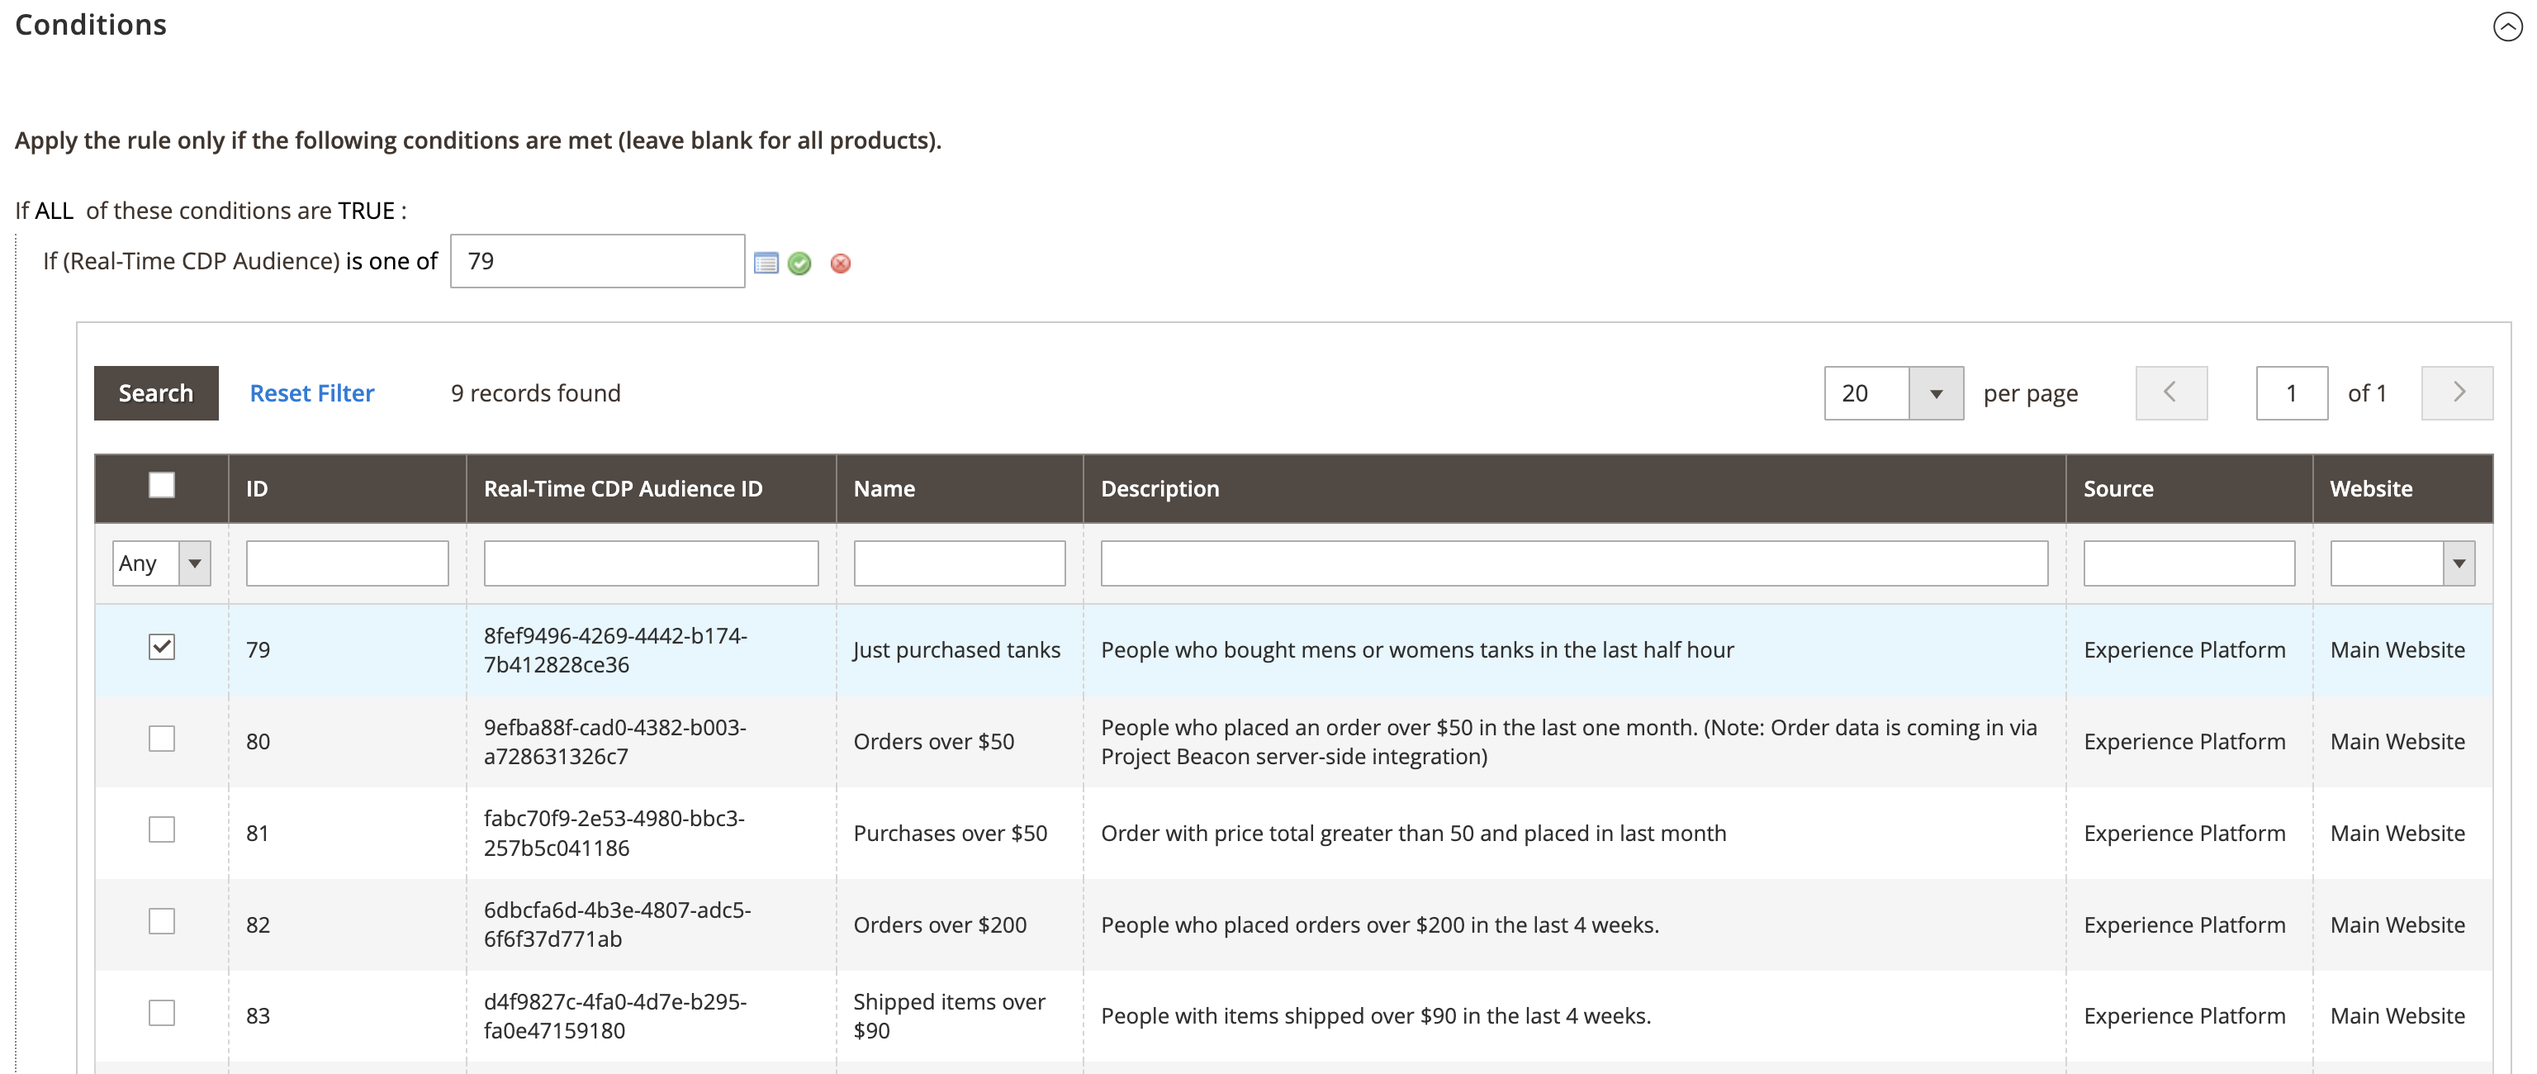
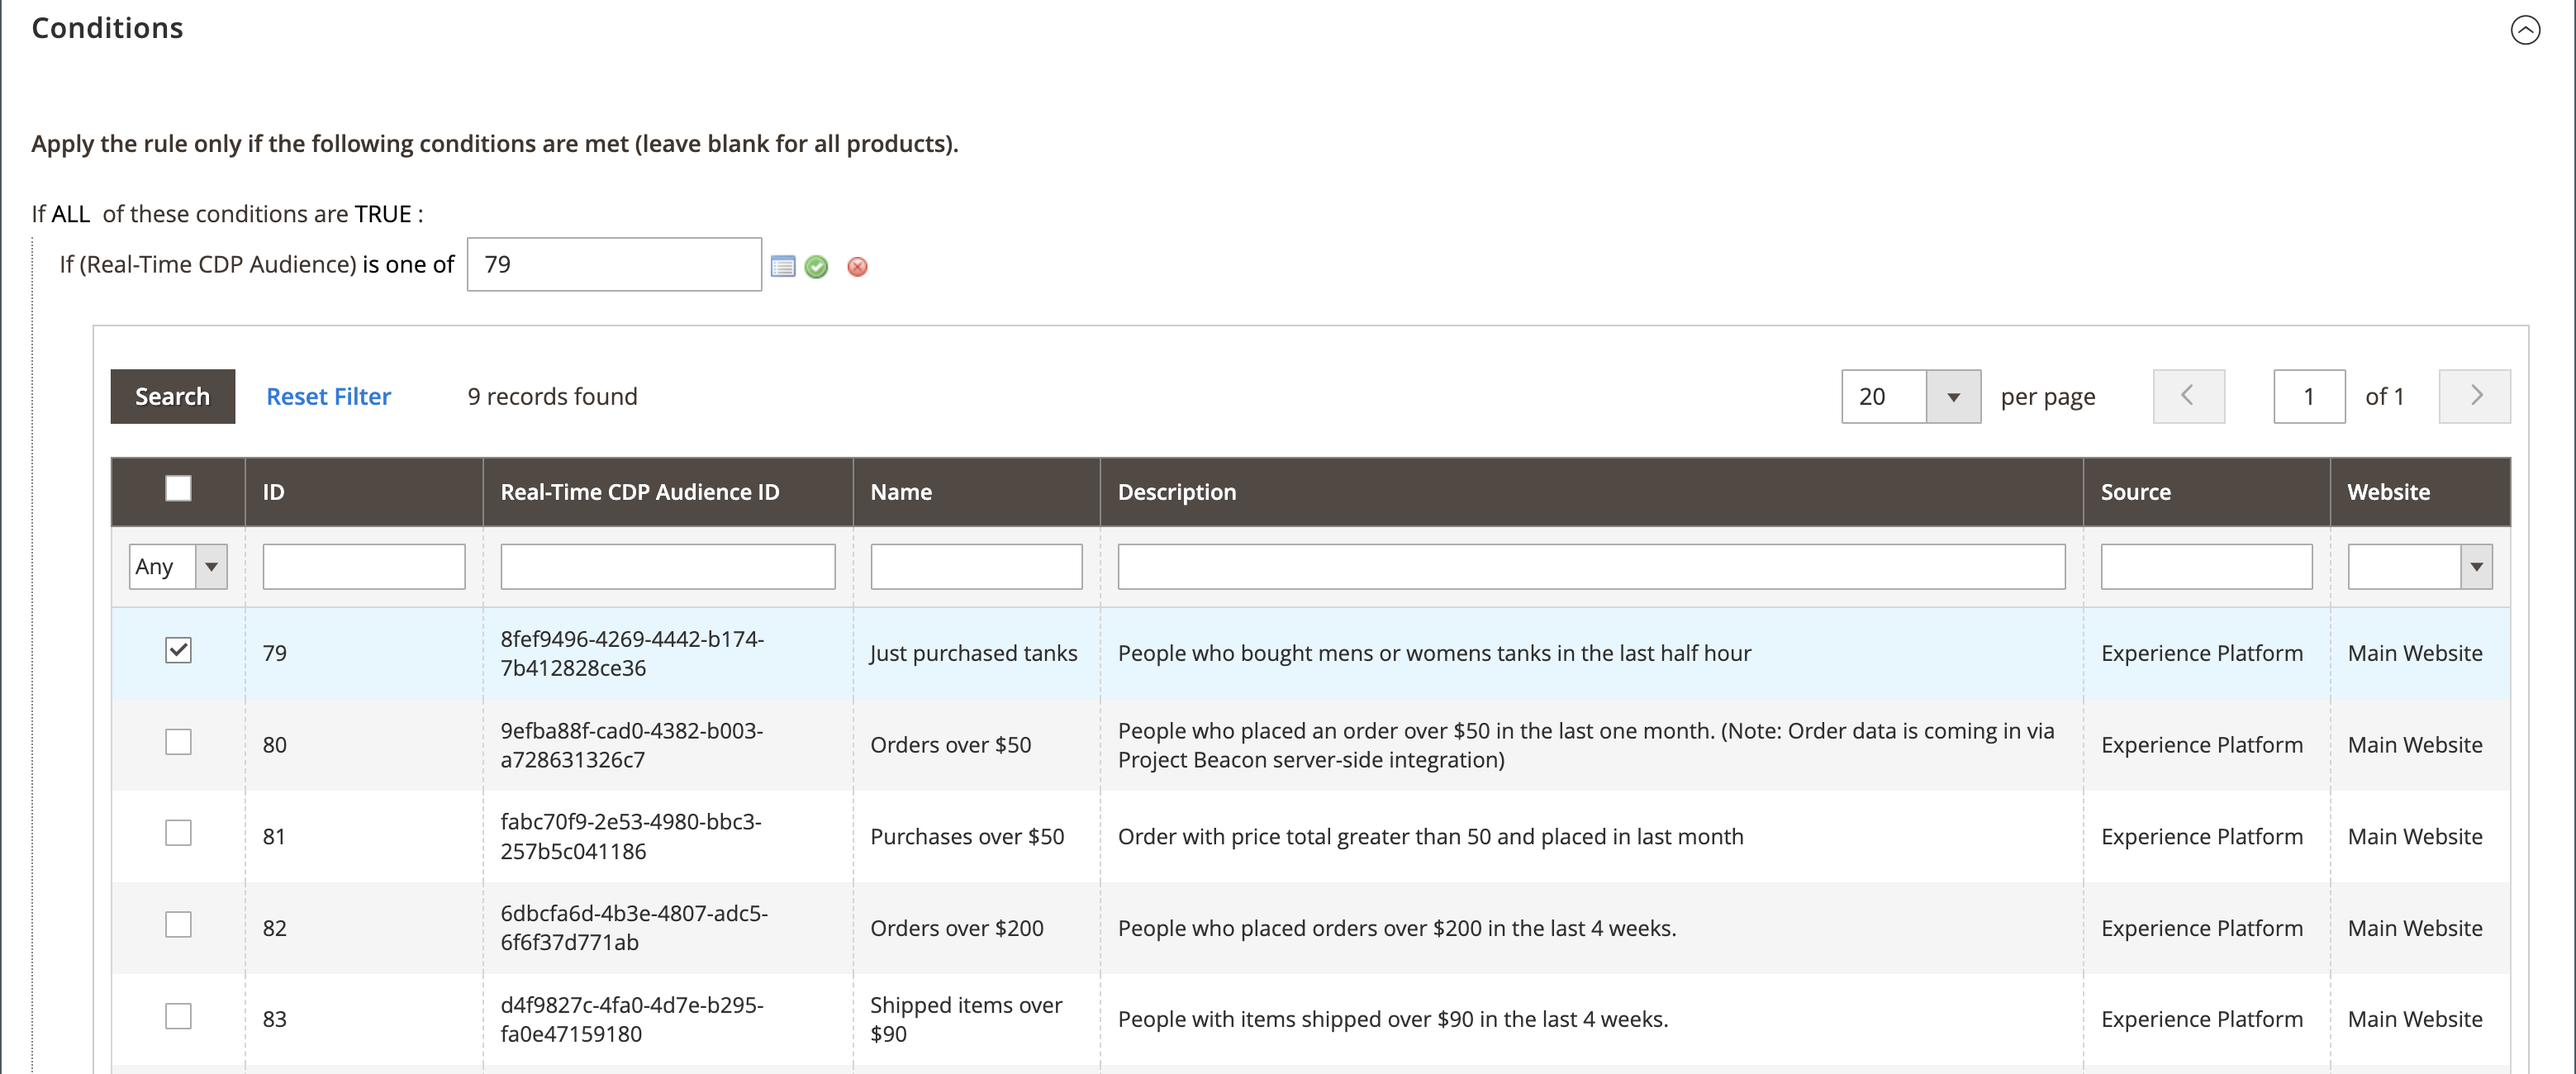
Fixes and adjustments for image formats

diff --git a/help/merchandising-promotions/product-related-rule-create.md b/help/merchandising-promotions/product-related-rule-create.md
@@ -44,11 +44,11 @@ The process of creating a related product rule is similar to setting up a price 
 
 1. In the left panel, choose **[!UICONTROL Products to Match]** and build the conditions as you would for a [catalog price rule](price-rules-catalog.md).
 
-   ![Related products rule - products to match](./assets/catalog-related-products-match.png){width="400"}
+   ![Related products rule - products to match](./assets/catalog-related-products-match.png){width="500"}
 
 1. In the left panel, choose **[!UICONTROL Products to Display]** and build the results conditions as you would for a [catalog price rule](price-rules-catalog.md).
 
-   ![Related products rule - products to display](./assets/catalog-related-products-to-display.png){width="400"}
+   ![Related products rule - products to display](./assets/catalog-related-products-to-display.png){width="500"}
 
    Complete the condition to describe the products that you want to include in the displayed results.
 

diff --git a/help/merchandising-promotions/price-rules-cart-create.md b/help/merchandising-promotions/price-rules-cart-create.md
@@ -198,11 +198,11 @@ You can set a condition for a cart price rule based on a Real-Time CDP [audience
 
 1. Expand **[!UICONTROL Conditions]**, click the "+" icon, and select **[!UICONTROL Real-Time CDP Audience]** from the list.
 
-   ![Select Real-Time CDP Audience Condition](./assets/rtcdp-conditions.png){width="450"}
+   ![Select Real-Time CDP Audience Condition](./assets/rtcdp-conditions.png){width="300"}
 
 1. Select the _More_ (**...**) icon, click **[!UICONTROL Open Chooser]**, and view all available Real-Time CDP audiences.
 
-   ![View Real-Time CDP Audiences](./assets/rtcdp-conditions-chooser.png)
+   ![View Real-Time CDP Audiences](./assets/rtcdp-conditions-chooser.png){width="600" zoomable="yes"}
 
 1. Select the Real-Time CDP audience you want to use for the cart price rule.
 

diff --git a/help/merchandising-promotions/price-rule-multiple-sku.md b/help/merchandising-promotions/price-rule-multiple-sku.md
@@ -47,7 +47,7 @@ Before you begin, make sure that the [Storefront Properties](../catalog/attribut
 
     - To complete the condition, click the more (**…**) link and click the _Chooser_ (![List icon](../assets/icon-list-chooser.png)) icon for the list of available products.
 
-      ![Catalog price rule condition - multiple SKUs](./assets/multiple-skus-condition2b.png)<{width="600" zoomable="yes"}
+      ![Catalog price rule condition - multiple SKUs](./assets/multiple-skus-condition2b.png){width="600" zoomable="yes"}
 
     - Browse, filter, or search to find the SKUs you want to add. In the list, select the checkbox of each product that is to be included.
     

diff --git a/help/merchandising-promotions/price-rule-discount-first-purchase.md b/help/merchandising-promotions/price-rule-discount-first-purchase.md
@@ -129,7 +129,7 @@ The customer segment is created and displayed in the _[!UICONTROL Customer Segme
 
        This line of the rule applies to all customers who match customer segment ID 2.
 
-   ![Customer segment condition](./assets/customer-segment-matches.png){width="200"}
+   ![Customer segment condition](./assets/customer-segment-matches.png){width="400"}
 
 1. Scroll down and expand ![Expansion selector](../assets/icon-display-expand.png)the **[!UICONTROL Conditions]** section and define the actions for the rule.
 
